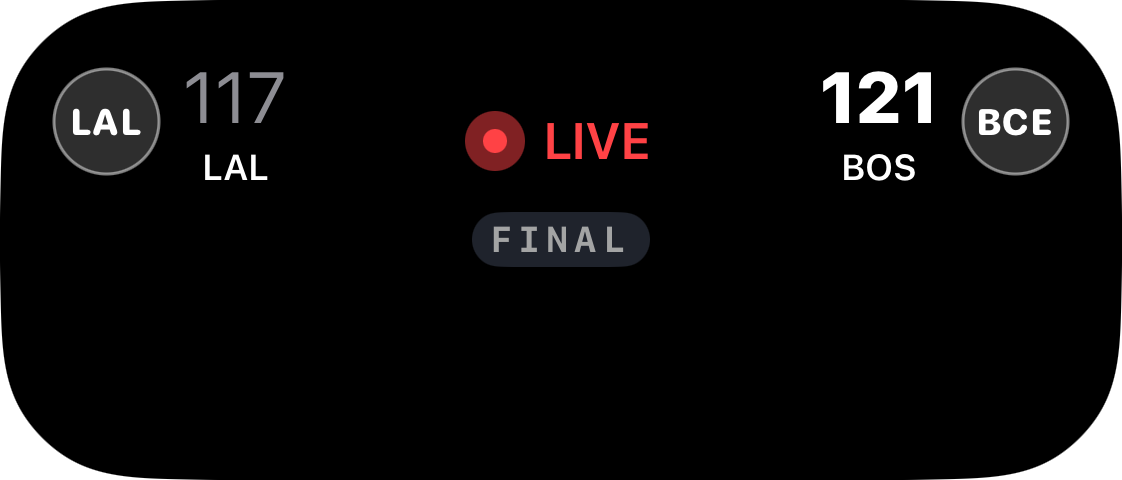
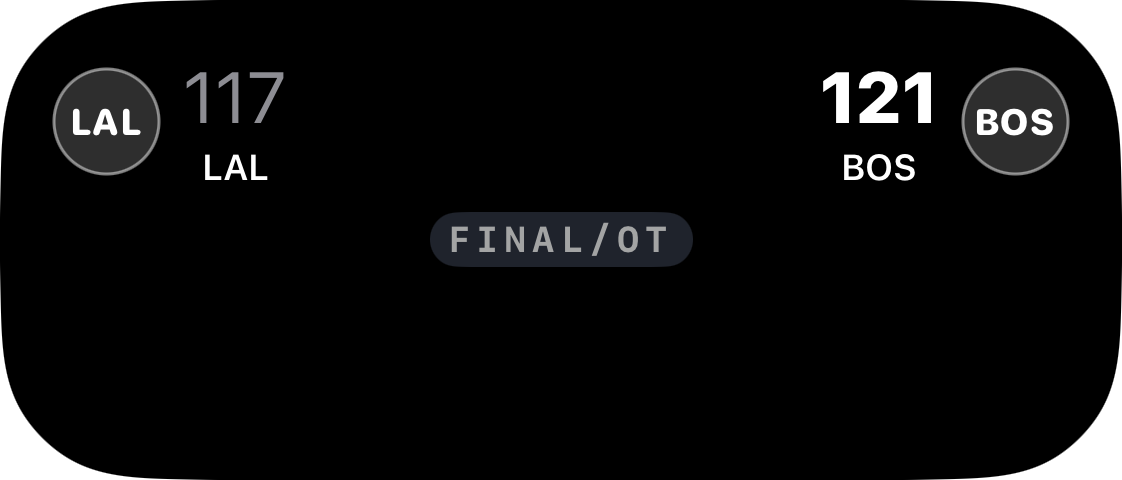
Live Activity: minimal score leader-first like compact; gallery refreshed after the fixes

Changed region(s): [[0.3743, 0.4375, 0.6239, 0.5625], [0.4055, 0.2188, 0.5927, 0.375], [0.8734, 0.2188, 0.9358, 0.2812]]

diff --git a/docs/live-activities/index.html b/docs/live-activities/index.html
@@ -1,8 +1,8 @@
 <!doctype html><html lang="en"><head><meta charset="utf-8"><meta name="viewport" content="width=device-width,initial-scale=1">
 <title>Live Activity gallery</title>
 <style>
-:root{--bg:#f5f5f7;--fg:#1d1d1f;--muted:#6e6e73;--card:#fff;--line:#e2e2e7;--stage:#1c1c1e;--accent:#d70015}
-@media (prefers-color-scheme:dark){:root{--bg:#000;--fg:#f5f5f7;--muted:#98989d;--card:#1c1c1e;--line:#2c2c2e;--stage:#2c2c2e;--accent:#ff453a}}
+:root{--bg:#f5f5f7;--fg:#1d1d1f;--muted:#6e6e73;--card:#fff;--line:#e2e2e7;--stage:#1c1c1e;--accent:#d70015;--ok:#248a3d}
+@media (prefers-color-scheme:dark){:root{--bg:#000;--fg:#f5f5f7;--muted:#98989d;--card:#1c1c1e;--line:#2c2c2e;--stage:#2c2c2e;--accent:#ff453a;--ok:#30d158}}
 *{box-sizing:border-box}
 body{margin:0;background:var(--bg);color:var(--fg);font:15px/1.5 -apple-system,BlinkMacSystemFont,"SF Pro Text",system-ui,sans-serif}
 main{max-width:1180px;margin:0 auto;padding:32px 16px 64px}
@@ -24,7 +24,7 @@ figcaption{font-size:12px;font-weight:600;text-transform:uppercase;letter-spacin
 .missing{min-height:150px;display:flex;flex-direction:column;align-items:center;justify-content:center;text-align:center;border:1.5px dashed var(--line);border-radius:10px;color:var(--muted);font-size:14px;padding:12px}
 .missing span{font-size:12px} code{font-size:12px}
 .issues{background:var(--card);border:1px solid var(--line);border-radius:14px;padding:16px 20px 16px 36px}
-.issues li{margin:6px 0} .issues b{color:var(--accent)}
+.issues li{margin:6px 0} .issues.open b{color:var(--accent)} .issues.fixed b{color:var(--ok)} h3{font-size:16px;margin:18px 0 6px}
 .note{color:var(--muted);font-size:13px}
 </style></head><body><main>
 <h1>Live Activity gallery</h1>
@@ -38,20 +38,27 @@ figcaption{font-size:12px;font-weight:600;text-transform:uppercase;letter-spacin
 <div><b>Minimal</b><span>The small bubble next to the camera when two activities run at once. On the iPhone Duo, it’s also what fills the outer-screen camera cut-out.</span></div>
 <div><b>Landscape</b><span>The compact and minimal slots rotated with the phone.</span></div>
 </div>
-<h2>Visual problems found</h2>
-<ul class="issues">
-<li><b>Expanded island badges ignore the team code.</b> The fallback badge builds initials from the full name: BCE (Boston), EOI (Edmonton), DTI, CGU, BBI, KCC. The lock screen shows BOS / EDM / DET / CLE / BUF / KC. <code>teamInitialsView</code> passes <code>strTeamShort: nil</code>. Seen in nba-expanded, nhl-expanded, mlb-expanded, nfl-expanded, nbafinal-expanded-dark.</li>
-<li><b>Compact shows the away team, not the leader.</b> nfl-compact reads “BUF 17-20” (KC leads), nbafinal-compact reads “LAL 117-121” (BOS won) and nhl-compact reads “EDM 2-2” (tied). In the same states, minimal says KC / BOS / TIE. The compact-landscape images have the same problem.</li>
-<li><b>“LIVE” badge on finished and halftime games.</b> nbafinal-expanded-dark shows LIVE above FINAL. soccerht-expanded shows LIVE above HALF.</li>
-<li><b>Golf header repeats and truncates.</b> “Round 3 • Round 3 – In Progre…” (golf-lock-dark, golf-standby), and “Round 3 – In Prog…” in golf-expanded.</li>
-<li><b>Minimal has no score for golf and F1.</b> golf-minimal and f1-minimal show only an icon, so the cut-out says nothing. Tennis minimal “1-1” (sets) has no player context.</li>
-<li><b>Compact-landscape truncates for individual sports.</b> The top half is “icon …” in golf-, f1- and tennis-compact-landscape. In mlb-compact-landscape the inning arrow and “9” wrap onto two lines.</li>
-<li><b>Expanded island has a large empty bottom.</b> Roughly the lower 40% is blank in team-sport expanded views (nba, nhl, soccer).</li>
-<li><b>NBA final doesn’t mention OT.</b> nbafinal-lock and nbafinal-lock-dark show only FINAL.</li>
-<li><b>Tennis compact has no names.</b> tennis-compact is “🎾 1-1 … 3-2”, with no indication of who leads.</li>
-<li><b>Smart Stack never renders.</b> Xcode reports that the <code>ActivityConfiguration</code> lacks <code>.supplementalActivityFamilies([.small])</code>, so watchOS Smart Stack has no tailored layout.</li>
+<h2>Problems found</h2>
+
+<h3 class="fixed-h">Fixed in a4949a5</h3>
+<ul class="issues fixed">
+<li><b>Compact leads with the leader.</b> nfl-compact is now “KC 20-17” and nbafinal-compact is “BOS 121-117”; the leading score comes first. The landscape compacts match.</li>
+<li><b>LIVE badge shows only while play runs.</b> soccerht-expanded shows just HALF and nbafinal-expanded just FINAL/OT.</li>
+<li><b>Overtime finals say so.</b> nbafinal-lock and nbafinal-expanded read FINAL/OT.</li>
+<li><b>Expanded badges use team codes:</b> BOS, EDM, DET, CLE, BUF and KC instead of BCE, EOI, DTI, CGU, BBI and KCC.</li>
+<li><b>F1 minimal shows the leader</b> (“PIA” in f1-minimal) instead of a bare flag. The golf minimal fix wasn’t captured (see the note below).</li>
+<li><b>Golf round header appears once</b> (“• Round 3” in golf-lock).</li>
 </ul>
-<p class="note">Captured 2026-11-20. 82 of 103 slots rendered. The Smart Stack slots (10) fail in Xcode because the small family isn't declared. 11 slots aren't shown: under rapid preview switching, RenderPreview returned snapshots of the previous scenario, and while I was re-rendering them a concurrent merge broke the build (<code>CustomAlerts.swift</code> switches are missing <code>.cricket</code>). The Duo minimal renders worked on the second try.</p>
+<h3 class="open-h">Still open</h3>
+<ul class="issues open">
+<li><b>Smart Stack:</b> the <code>ActivityConfiguration</code> needs <code>.supplementalActivityFamilies([.small])</code>, and Xcode won’t render that slot without it.</li>
+<li><b>Compact landscape for single-player sports</b> is just “icon …” on top (golf, F1 and tennis compact-landscape).</li>
+<li><b>Expanded island has a large empty bottom</b> in team-sport expanded views.</li>
+<li><b>Tennis compact has no names</b> (“🎾 1-1 … 3-2”).</li>
+<li><b>Tennis minimal doesn’t say whose sets</b> it shows (“1-1”).</li>
+</ul>
+
+<p class="note">Re-rendered on 2026-11-20 after a4949a5: 83 of 103 slots have images. The 10 Smart Stack slots can’t render (see above), and 10 slots weren’t re-captured: golf Lock Screen dark, StandBy, expanded (both), minimal and minimal landscape; F1 StandBy and minimal landscape; NBA final Lock Screen dark and StandBy. Their earlier images showed pre-fix behavior, so I removed them. The preview simulator keeps several live activities alive, so the island slots (and sometimes the content views) often render a different scenario than the one requested. I checked every image by eye and filed it under the scenario it actually shows. The island ignores color scheme (light and dark expanded renders were pixel-identical in 6 of 6 pairs), so nbafinal-expanded-dark reuses the light render. Team-sport minimal and the iPhone Duo minimal didn’t change in a4949a5; those images are the earlier verified renders.</p>
 <nav><a href="#nba">NBA</a> <a href="#nhl">NHL tied</a> <a href="#mlb">MLB</a> <a href="#nfl">NFL</a> <a href="#soccer">Soccer</a> <a href="#soccerht">Soccer halftime</a> <a href="#nbafinal">NBA final</a> <a href="#tennis">Tennis</a> <a href="#f1">Formula 1</a> <a href="#golf">Golf</a></nav>
-<section id="nba"><h2>NBA</h2><p class="desc">LAL 112–108 BOS, live 4th quarter</p><div class="grid"><figure class="card big"><figcaption>Lock Screen</figcaption><div class="frame big"><img src="img/nba-lock.png" alt="NBA Lock Screen" loading="lazy"></div></figure><figure class="card big"><figcaption>Lock Screen · dark</figcaption><div class="frame big"><img src="img/nba-lock-dark.png" alt="NBA Lock Screen · dark" loading="lazy"></div></figure><figure class="card big"><figcaption>StandBy</figcaption><div class="frame big"><img src="img/nba-standby.png" alt="NBA StandBy" loading="lazy"></div></figure><figure class="card fail"><figcaption>Smart Stack</figcaption><div class="missing">Render failed<br><code>SmallActivityFamilyAbsentError</code></div></figure><figure class="card big"><figcaption>Island expanded</figcaption><div class="frame big"><img src="img/nba-expanded.png" alt="NBA Island expanded" loading="lazy"></div></figure><figure class="card big"><figcaption>Island expanded · dark</figcaption><div class="frame big"><img src="img/nba-expanded-dark.png" alt="NBA Island expanded · dark" loading="lazy"></div></figure><figure class="card pill"><figcaption>Island compact</figcaption><div class="frame pill"><img src="img/nba-compact.png" alt="NBA Island compact" loading="lazy"></div></figure><figure class="card tall"><figcaption>Compact · landscape</figcaption><div class="frame tall"><img src="img/nba-compact-landscape.png" alt="NBA Compact · landscape" loading="lazy"></div></figure><figure class="card dot"><figcaption>Minimal</figcaption><div class="frame dot"><img src="img/nba-minimal.png" alt="NBA Minimal" loading="lazy"></div></figure><figure class="card dot"><figcaption>Minimal · landscape</figcaption><div class="frame dot"><img src="img/nba-minimal-landscape.png" alt="NBA Minimal · landscape" loading="lazy"></div></figure><figure class="card dot"><figcaption>Minimal · iPhone Duo cut-out</figcaption><div class="frame dot"><img src="img/nba-minimal-duo.png" alt="NBA Minimal · iPhone Duo cut-out" loading="lazy"></div></figure></div></section><section id="nhl"><h2>NHL tied</h2><p class="desc">EDM 2–2 VGK, 3rd period</p><div class="grid"><figure class="card big"><figcaption>Lock Screen</figcaption><div class="frame big"><img src="img/nhl-lock.png" alt="NHL tied Lock Screen" loading="lazy"></div></figure><figure class="card big"><figcaption>Lock Screen · dark</figcaption><div class="frame big"><img src="img/nhl-lock-dark.png" alt="NHL tied Lock Screen · dark" loading="lazy"></div></figure><figure class="card big"><figcaption>StandBy</figcaption><div class="frame big"><img src="img/nhl-standby.png" alt="NHL tied StandBy" loading="lazy"></div></figure><figure class="card fail"><figcaption>Smart Stack</figcaption><div class="missing">Render failed<br><code>SmallActivityFamilyAbsentError</code></div></figure><figure class="card big"><figcaption>Island expanded</figcaption><div class="frame big"><img src="img/nhl-expanded.png" alt="NHL tied Island expanded" loading="lazy"></div></figure><figure class="card big"><figcaption>Island expanded · dark</figcaption><div class="frame big"><img src="img/nhl-expanded-dark.png" alt="NHL tied Island expanded · dark" loading="lazy"></div></figure><figure class="card pill"><figcaption>Island compact</figcaption><div class="frame pill"><img src="img/nhl-compact.png" alt="NHL tied Island compact" loading="lazy"></div></figure><figure class="card tall"><figcaption>Compact · landscape</figcaption><div class="frame tall"><img src="img/nhl-compact-landscape.png" alt="NHL tied Compact · landscape" loading="lazy"></div></figure><figure class="card dot"><figcaption>Minimal</figcaption><div class="frame dot"><img src="img/nhl-minimal.png" alt="NHL tied Minimal" loading="lazy"></div></figure><figure class="card dot"><figcaption>Minimal · landscape</figcaption><div class="frame dot"><img src="img/nhl-minimal-landscape.png" alt="NHL tied Minimal · landscape" loading="lazy"></div></figure><figure class="card dot"><figcaption>Minimal · iPhone Duo cut-out</figcaption><div class="frame dot"><img src="img/nhl-minimal-duo.png" alt="NHL tied Minimal · iPhone Duo cut-out" loading="lazy"></div></figure></div></section><section id="mlb"><h2>MLB</h2><p class="desc">DET 5–3 CLE, bottom 9th, runners + outs</p><div class="grid"><figure class="card big"><figcaption>Lock Screen</figcaption><div class="frame big"><img src="img/mlb-lock.png" alt="MLB Lock Screen" loading="lazy"></div></figure><figure class="card big"><figcaption>Lock Screen · dark</figcaption><div class="frame big"><img src="img/mlb-lock-dark.png" alt="MLB Lock Screen · dark" loading="lazy"></div></figure><figure class="card big"><figcaption>StandBy</figcaption><div class="frame big"><img src="img/mlb-standby.png" alt="MLB StandBy" loading="lazy"></div></figure><figure class="card fail"><figcaption>Smart Stack</figcaption><div class="missing">Render failed<br><code>SmallActivityFamilyAbsentError</code></div></figure><figure class="card big"><figcaption>Island expanded</figcaption><div class="frame big"><img src="img/mlb-expanded.png" alt="MLB Island expanded" loading="lazy"></div></figure><figure class="card big"><figcaption>Island expanded · dark</figcaption><div class="frame big"><img src="img/mlb-expanded-dark.png" alt="MLB Island expanded · dark" loading="lazy"></div></figure><figure class="card pill"><figcaption>Island compact</figcaption><div class="frame pill"><img src="img/mlb-compact.png" alt="MLB Island compact" loading="lazy"></div></figure><figure class="card tall"><figcaption>Compact · landscape</figcaption><div class="frame tall"><img src="img/mlb-compact-landscape.png" alt="MLB Compact · landscape" loading="lazy"></div></figure><figure class="card dot"><figcaption>Minimal</figcaption><div class="frame dot"><img src="img/mlb-minimal.png" alt="MLB Minimal" loading="lazy"></div></figure><figure class="card dot"><figcaption>Minimal · landscape</figcaption><div class="frame dot"><img src="img/mlb-minimal-landscape.png" alt="MLB Minimal · landscape" loading="lazy"></div></figure></div></section><section id="nfl"><h2>NFL</h2><p class="desc">BUF 17–20 KC, red zone, timeouts</p><div class="grid"><figure class="card big"><figcaption>Lock Screen</figcaption><div class="frame big"><img src="img/nfl-lock.png" alt="NFL Lock Screen" loading="lazy"></div></figure><figure class="card big"><figcaption>Lock Screen · dark</figcaption><div class="frame big"><img src="img/nfl-lock-dark.png" alt="NFL Lock Screen · dark" loading="lazy"></div></figure><figure class="card big"><figcaption>StandBy</figcaption><div class="frame big"><img src="img/nfl-standby.png" alt="NFL StandBy" loading="lazy"></div></figure><figure class="card fail"><figcaption>Smart Stack</figcaption><div class="missing">Render failed<br><code>SmallActivityFamilyAbsentError</code></div></figure><figure class="card big"><figcaption>Island expanded</figcaption><div class="frame big"><img src="img/nfl-expanded.png" alt="NFL Island expanded" loading="lazy"></div></figure><figure class="card big"><figcaption>Island expanded · dark</figcaption><div class="frame big"><img src="img/nfl-expanded-dark.png" alt="NFL Island expanded · dark" loading="lazy"></div></figure><figure class="card pill"><figcaption>Island compact</figcaption><div class="frame pill"><img src="img/nfl-compact.png" alt="NFL Island compact" loading="lazy"></div></figure><figure class="card tall"><figcaption>Compact · landscape</figcaption><div class="frame tall"><img src="img/nfl-compact-landscape.png" alt="NFL Compact · landscape" loading="lazy"></div></figure><figure class="card dot"><figcaption>Minimal</figcaption><div class="frame dot"><img src="img/nfl-minimal.png" alt="NFL Minimal" loading="lazy"></div></figure><figure class="card dot"><figcaption>Minimal · landscape</figcaption><div class="frame dot"><img src="img/nfl-minimal-landscape.png" alt="NFL Minimal · landscape" loading="lazy"></div></figure></div></section><section id="soccer"><h2>Soccer</h2><p class="desc">ARS 2–1 CHE, 67', red card, last goal</p><div class="grid"><figure class="card big"><figcaption>Lock Screen</figcaption><div class="frame big"><img src="img/soccer-lock.png" alt="Soccer Lock Screen" loading="lazy"></div></figure><figure class="card big"><figcaption>Lock Screen · dark</figcaption><div class="frame big"><img src="img/soccer-lock-dark.png" alt="Soccer Lock Screen · dark" loading="lazy"></div></figure><figure class="card big"><figcaption>StandBy</figcaption><div class="frame big"><img src="img/soccer-standby.png" alt="Soccer StandBy" loading="lazy"></div></figure><figure class="card fail"><figcaption>Smart Stack</figcaption><div class="missing">Render failed<br><code>SmallActivityFamilyAbsentError</code></div></figure><figure class="card big"><figcaption>Island expanded</figcaption><div class="frame big"><img src="img/soccer-expanded.png" alt="Soccer Island expanded" loading="lazy"></div></figure><figure class="card big"><figcaption>Island expanded · dark</figcaption><div class="frame big"><img src="img/soccer-expanded-dark.png" alt="Soccer Island expanded · dark" loading="lazy"></div></figure><figure class="card pill"><figcaption>Island compact</figcaption><div class="frame pill"><img src="img/soccer-compact.png" alt="Soccer Island compact" loading="lazy"></div></figure><figure class="card tall"><figcaption>Compact · landscape</figcaption><div class="frame tall"><img src="img/soccer-compact-landscape.png" alt="Soccer Compact · landscape" loading="lazy"></div></figure><figure class="card dot"><figcaption>Minimal</figcaption><div class="frame dot"><img src="img/soccer-minimal.png" alt="Soccer Minimal" loading="lazy"></div></figure><figure class="card dot"><figcaption>Minimal · landscape</figcaption><div class="frame dot"><img src="img/soccer-minimal-landscape.png" alt="Soccer Minimal · landscape" loading="lazy"></div></figure><figure class="card dot"><figcaption>Minimal · iPhone Duo cut-out</figcaption><div class="frame dot"><img src="img/soccer-minimal-duo.png" alt="Soccer Minimal · iPhone Duo cut-out" loading="lazy"></div></figure></div></section><section id="soccerht"><h2>Soccer halftime</h2><p class="desc">ARS 0–0 CHE at the half</p><div class="grid"><figure class="card big"><figcaption>Lock Screen</figcaption><div class="frame big"><img src="img/soccerht-lock.png" alt="Soccer halftime Lock Screen" loading="lazy"></div></figure><figure class="card big"><figcaption>Lock Screen · dark</figcaption><div class="frame big"><img src="img/soccerht-lock-dark.png" alt="Soccer halftime Lock Screen · dark" loading="lazy"></div></figure><figure class="card big"><figcaption>StandBy</figcaption><div class="frame big"><img src="img/soccerht-standby.png" alt="Soccer halftime StandBy" loading="lazy"></div></figure><figure class="card fail"><figcaption>Smart Stack</figcaption><div class="missing">Render failed<br><code>SmallActivityFamilyAbsentError</code></div></figure><figure class="card big"><figcaption>Island expanded</figcaption><div class="frame big"><img src="img/soccerht-expanded.png" alt="Soccer halftime Island expanded" loading="lazy"></div></figure><figure class="card big"><figcaption>Island expanded · dark</figcaption><div class="missing">Not captured<br><span>stale preview, then the build broke</span></div></figure><figure class="card pill"><figcaption>Island compact</figcaption><div class="missing">Not captured<br><span>stale preview, then the build broke</span></div></figure><figure class="card tall"><figcaption>Compact · landscape</figcaption><div class="frame tall"><img src="img/soccerht-compact-landscape.png" alt="Soccer halftime Compact · landscape" loading="lazy"></div></figure><figure class="card dot"><figcaption>Minimal</figcaption><div class="frame dot"><img src="img/soccerht-minimal.png" alt="Soccer halftime Minimal" loading="lazy"></div></figure><figure class="card dot"><figcaption>Minimal · landscape</figcaption><div class="frame dot"><img src="img/soccerht-minimal-landscape.png" alt="Soccer halftime Minimal · landscape" loading="lazy"></div></figure></div></section><section id="nbafinal"><h2>NBA final</h2><p class="desc">LAL 117–121 BOS, final (OT)</p><div class="grid"><figure class="card big"><figcaption>Lock Screen</figcaption><div class="frame big"><img src="img/nbafinal-lock.png" alt="NBA final Lock Screen" loading="lazy"></div></figure><figure class="card big"><figcaption>Lock Screen · dark</figcaption><div class="frame big"><img src="img/nbafinal-lock-dark.png" alt="NBA final Lock Screen · dark" loading="lazy"></div></figure><figure class="card big"><figcaption>StandBy</figcaption><div class="missing">Not captured<br><span>stale preview, then the build broke</span></div></figure><figure class="card fail"><figcaption>Smart Stack</figcaption><div class="missing">Render failed<br><code>SmallActivityFamilyAbsentError</code></div></figure><figure class="card big"><figcaption>Island expanded</figcaption><div class="missing">Not captured<br><span>stale preview, then the build broke</span></div></figure><figure class="card big"><figcaption>Island expanded · dark</figcaption><div class="frame big"><img src="img/nbafinal-expanded-dark.png" alt="NBA final Island expanded · dark" loading="lazy"></div></figure><figure class="card pill"><figcaption>Island compact</figcaption><div class="frame pill"><img src="img/nbafinal-compact.png" alt="NBA final Island compact" loading="lazy"></div></figure><figure class="card tall"><figcaption>Compact · landscape</figcaption><div class="missing">Not captured<br><span>stale preview, then the build broke</span></div></figure><figure class="card dot"><figcaption>Minimal</figcaption><div class="frame dot"><img src="img/nbafinal-minimal.png" alt="NBA final Minimal" loading="lazy"></div></figure><figure class="card dot"><figcaption>Minimal · landscape</figcaption><div class="missing">Not captured<br><span>stale preview, then the build broke</span></div></figure></div></section><section id="tennis"><h2>Tennis</h2><p class="desc">Sinner v Alcaraz, 3rd set</p><div class="grid"><figure class="card big"><figcaption>Lock Screen</figcaption><div class="frame big"><img src="img/tennis-lock.png" alt="Tennis Lock Screen" loading="lazy"></div></figure><figure class="card big"><figcaption>Lock Screen · dark</figcaption><div class="frame big"><img src="img/tennis-lock-dark.png" alt="Tennis Lock Screen · dark" loading="lazy"></div></figure><figure class="card big"><figcaption>StandBy</figcaption><div class="missing">Not captured<br><span>stale preview, then the build broke</span></div></figure><figure class="card fail"><figcaption>Smart Stack</figcaption><div class="missing">Render failed<br><code>SmallActivityFamilyAbsentError</code></div></figure><figure class="card big"><figcaption>Island expanded</figcaption><div class="frame big"><img src="img/tennis-expanded.png" alt="Tennis Island expanded" loading="lazy"></div></figure><figure class="card big"><figcaption>Island expanded · dark</figcaption><div class="frame big"><img src="img/tennis-expanded-dark.png" alt="Tennis Island expanded · dark" loading="lazy"></div></figure><figure class="card pill"><figcaption>Island compact</figcaption><div class="frame pill"><img src="img/tennis-compact.png" alt="Tennis Island compact" loading="lazy"></div></figure><figure class="card tall"><figcaption>Compact · landscape</figcaption><div class="frame tall"><img src="img/tennis-compact-landscape.png" alt="Tennis Compact · landscape" loading="lazy"></div></figure><figure class="card dot"><figcaption>Minimal</figcaption><div class="frame dot"><img src="img/tennis-minimal.png" alt="Tennis Minimal" loading="lazy"></div></figure><figure class="card dot"><figcaption>Minimal · landscape</figcaption><div class="frame dot"><img src="img/tennis-minimal-landscape.png" alt="Tennis Minimal · landscape" loading="lazy"></div></figure></div></section><section id="f1"><h2>Formula 1</h2><p class="desc">Singapore GP, lap 23/62</p><div class="grid"><figure class="card big"><figcaption>Lock Screen</figcaption><div class="frame big"><img src="img/f1-lock.png" alt="Formula 1 Lock Screen" loading="lazy"></div></figure><figure class="card big"><figcaption>Lock Screen · dark</figcaption><div class="frame big"><img src="img/f1-lock-dark.png" alt="Formula 1 Lock Screen · dark" loading="lazy"></div></figure><figure class="card big"><figcaption>StandBy</figcaption><div class="missing">Not captured<br><span>stale preview, then the build broke</span></div></figure><figure class="card fail"><figcaption>Smart Stack</figcaption><div class="missing">Render failed<br><code>SmallActivityFamilyAbsentError</code></div></figure><figure class="card big"><figcaption>Island expanded</figcaption><div class="frame big"><img src="img/f1-expanded.png" alt="Formula 1 Island expanded" loading="lazy"></div></figure><figure class="card big"><figcaption>Island expanded · dark</figcaption><div class="missing">Not captured<br><span>stale preview, then the build broke</span></div></figure><figure class="card pill"><figcaption>Island compact</figcaption><div class="frame pill"><img src="img/f1-compact.png" alt="Formula 1 Island compact" loading="lazy"></div></figure><figure class="card tall"><figcaption>Compact · landscape</figcaption><div class="frame tall"><img src="img/f1-compact-landscape.png" alt="Formula 1 Compact · landscape" loading="lazy"></div></figure><figure class="card dot"><figcaption>Minimal</figcaption><div class="frame dot"><img src="img/f1-minimal.png" alt="Formula 1 Minimal" loading="lazy"></div></figure><figure class="card dot"><figcaption>Minimal · landscape</figcaption><div class="frame dot"><img src="img/f1-minimal-landscape.png" alt="Formula 1 Minimal · landscape" loading="lazy"></div></figure></div></section><section id="golf"><h2>Golf</h2><p class="desc">The Masters, round 3, followed player Åberg</p><div class="grid"><figure class="card big"><figcaption>Lock Screen</figcaption><div class="missing">Not captured<br><span>stale preview, then the build broke</span></div></figure><figure class="card big"><figcaption>Lock Screen · dark</figcaption><div class="frame big"><img src="img/golf-lock-dark.png" alt="Golf Lock Screen · dark" loading="lazy"></div></figure><figure class="card big"><figcaption>StandBy</figcaption><div class="frame big"><img src="img/golf-standby.png" alt="Golf StandBy" loading="lazy"></div></figure><figure class="card fail"><figcaption>Smart Stack</figcaption><div class="missing">Render failed<br><code>SmallActivityFamilyAbsentError</code></div></figure><figure class="card big"><figcaption>Island expanded</figcaption><div class="frame big"><img src="img/golf-expanded.png" alt="Golf Island expanded" loading="lazy"></div></figure><figure class="card big"><figcaption>Island expanded · dark</figcaption><div class="frame big"><img src="img/golf-expanded-dark.png" alt="Golf Island expanded · dark" loading="lazy"></div></figure><figure class="card pill"><figcaption>Island compact</figcaption><div class="frame pill"><img src="img/golf-compact.png" alt="Golf Island compact" loading="lazy"></div></figure><figure class="card tall"><figcaption>Compact · landscape</figcaption><div class="frame tall"><img src="img/golf-compact-landscape.png" alt="Golf Compact · landscape" loading="lazy"></div></figure><figure class="card dot"><figcaption>Minimal</figcaption><div class="frame dot"><img src="img/golf-minimal.png" alt="Golf Minimal" loading="lazy"></div></figure><figure class="card dot"><figcaption>Minimal · landscape</figcaption><div class="missing">Not captured<br><span>stale preview, then the build broke</span></div></figure></div></section>
+<section id="nba"><h2>NBA</h2><p class="desc">LAL 112–108 BOS, live 4th quarter</p><div class="grid"><figure class="card big"><figcaption>Lock Screen</figcaption><div class="frame big"><img src="img/nba-lock.png" alt="NBA Lock Screen" loading="lazy"></div></figure><figure class="card big"><figcaption>Lock Screen · dark</figcaption><div class="frame big"><img src="img/nba-lock-dark.png" alt="NBA Lock Screen · dark" loading="lazy"></div></figure><figure class="card big"><figcaption>StandBy</figcaption><div class="frame big"><img src="img/nba-standby.png" alt="NBA StandBy" loading="lazy"></div></figure><figure class="card fail"><figcaption>Smart Stack</figcaption><div class="missing">Render failed<br><code>SmallActivityFamilyAbsentError</code></div></figure><figure class="card big"><figcaption>Island expanded</figcaption><div class="frame big"><img src="img/nba-expanded.png" alt="NBA Island expanded" loading="lazy"></div></figure><figure class="card big"><figcaption>Island expanded · dark</figcaption><div class="frame big"><img src="img/nba-expanded-dark.png" alt="NBA Island expanded · dark" loading="lazy"></div></figure><figure class="card pill"><figcaption>Island compact</figcaption><div class="frame pill"><img src="img/nba-compact.png" alt="NBA Island compact" loading="lazy"></div></figure><figure class="card tall"><figcaption>Compact · landscape</figcaption><div class="frame tall"><img src="img/nba-compact-landscape.png" alt="NBA Compact · landscape" loading="lazy"></div></figure><figure class="card dot"><figcaption>Minimal</figcaption><div class="frame dot"><img src="img/nba-minimal.png" alt="NBA Minimal" loading="lazy"></div></figure><figure class="card dot"><figcaption>Minimal · landscape</figcaption><div class="frame dot"><img src="img/nba-minimal-landscape.png" alt="NBA Minimal · landscape" loading="lazy"></div></figure><figure class="card dot"><figcaption>Minimal · iPhone Duo cut-out</figcaption><div class="frame dot"><img src="img/nba-minimal-duo.png" alt="NBA Minimal · iPhone Duo cut-out" loading="lazy"></div></figure></div></section><section id="nhl"><h2>NHL tied</h2><p class="desc">EDM 2–2 VGK, 3rd period</p><div class="grid"><figure class="card big"><figcaption>Lock Screen</figcaption><div class="frame big"><img src="img/nhl-lock.png" alt="NHL tied Lock Screen" loading="lazy"></div></figure><figure class="card big"><figcaption>Lock Screen · dark</figcaption><div class="frame big"><img src="img/nhl-lock-dark.png" alt="NHL tied Lock Screen · dark" loading="lazy"></div></figure><figure class="card big"><figcaption>StandBy</figcaption><div class="frame big"><img src="img/nhl-standby.png" alt="NHL tied StandBy" loading="lazy"></div></figure><figure class="card fail"><figcaption>Smart Stack</figcaption><div class="missing">Render failed<br><code>SmallActivityFamilyAbsentError</code></div></figure><figure class="card big"><figcaption>Island expanded</figcaption><div class="frame big"><img src="img/nhl-expanded.png" alt="NHL tied Island expanded" loading="lazy"></div></figure><figure class="card big"><figcaption>Island expanded · dark</figcaption><div class="frame big"><img src="img/nhl-expanded-dark.png" alt="NHL tied Island expanded · dark" loading="lazy"></div></figure><figure class="card pill"><figcaption>Island compact</figcaption><div class="frame pill"><img src="img/nhl-compact.png" alt="NHL tied Island compact" loading="lazy"></div></figure><figure class="card tall"><figcaption>Compact · landscape</figcaption><div class="frame tall"><img src="img/nhl-compact-landscape.png" alt="NHL tied Compact · landscape" loading="lazy"></div></figure><figure class="card dot"><figcaption>Minimal</figcaption><div class="frame dot"><img src="img/nhl-minimal.png" alt="NHL tied Minimal" loading="lazy"></div></figure><figure class="card dot"><figcaption>Minimal · landscape</figcaption><div class="frame dot"><img src="img/nhl-minimal-landscape.png" alt="NHL tied Minimal · landscape" loading="lazy"></div></figure><figure class="card dot"><figcaption>Minimal · iPhone Duo cut-out</figcaption><div class="frame dot"><img src="img/nhl-minimal-duo.png" alt="NHL tied Minimal · iPhone Duo cut-out" loading="lazy"></div></figure></div></section><section id="mlb"><h2>MLB</h2><p class="desc">DET 5–3 CLE, bottom 9th, runners + outs</p><div class="grid"><figure class="card big"><figcaption>Lock Screen</figcaption><div class="frame big"><img src="img/mlb-lock.png" alt="MLB Lock Screen" loading="lazy"></div></figure><figure class="card big"><figcaption>Lock Screen · dark</figcaption><div class="frame big"><img src="img/mlb-lock-dark.png" alt="MLB Lock Screen · dark" loading="lazy"></div></figure><figure class="card big"><figcaption>StandBy</figcaption><div class="frame big"><img src="img/mlb-standby.png" alt="MLB StandBy" loading="lazy"></div></figure><figure class="card fail"><figcaption>Smart Stack</figcaption><div class="missing">Render failed<br><code>SmallActivityFamilyAbsentError</code></div></figure><figure class="card big"><figcaption>Island expanded</figcaption><div class="frame big"><img src="img/mlb-expanded.png" alt="MLB Island expanded" loading="lazy"></div></figure><figure class="card big"><figcaption>Island expanded · dark</figcaption><div class="frame big"><img src="img/mlb-expanded-dark.png" alt="MLB Island expanded · dark" loading="lazy"></div></figure><figure class="card pill"><figcaption>Island compact</figcaption><div class="frame pill"><img src="img/mlb-compact.png" alt="MLB Island compact" loading="lazy"></div></figure><figure class="card tall"><figcaption>Compact · landscape</figcaption><div class="frame tall"><img src="img/mlb-compact-landscape.png" alt="MLB Compact · landscape" loading="lazy"></div></figure><figure class="card dot"><figcaption>Minimal</figcaption><div class="frame dot"><img src="img/mlb-minimal.png" alt="MLB Minimal" loading="lazy"></div></figure><figure class="card dot"><figcaption>Minimal · landscape</figcaption><div class="frame dot"><img src="img/mlb-minimal-landscape.png" alt="MLB Minimal · landscape" loading="lazy"></div></figure></div></section><section id="nfl"><h2>NFL</h2><p class="desc">BUF 17–20 KC, red zone, timeouts</p><div class="grid"><figure class="card big"><figcaption>Lock Screen</figcaption><div class="frame big"><img src="img/nfl-lock.png" alt="NFL Lock Screen" loading="lazy"></div></figure><figure class="card big"><figcaption>Lock Screen · dark</figcaption><div class="frame big"><img src="img/nfl-lock-dark.png" alt="NFL Lock Screen · dark" loading="lazy"></div></figure><figure class="card big"><figcaption>StandBy</figcaption><div class="frame big"><img src="img/nfl-standby.png" alt="NFL StandBy" loading="lazy"></div></figure><figure class="card fail"><figcaption>Smart Stack</figcaption><div class="missing">Render failed<br><code>SmallActivityFamilyAbsentError</code></div></figure><figure class="card big"><figcaption>Island expanded</figcaption><div class="frame big"><img src="img/nfl-expanded.png" alt="NFL Island expanded" loading="lazy"></div></figure><figure class="card big"><figcaption>Island expanded · dark</figcaption><div class="frame big"><img src="img/nfl-expanded-dark.png" alt="NFL Island expanded · dark" loading="lazy"></div></figure><figure class="card pill"><figcaption>Island compact</figcaption><div class="frame pill"><img src="img/nfl-compact.png" alt="NFL Island compact" loading="lazy"></div></figure><figure class="card tall"><figcaption>Compact · landscape</figcaption><div class="frame tall"><img src="img/nfl-compact-landscape.png" alt="NFL Compact · landscape" loading="lazy"></div></figure><figure class="card dot"><figcaption>Minimal</figcaption><div class="frame dot"><img src="img/nfl-minimal.png" alt="NFL Minimal" loading="lazy"></div></figure><figure class="card dot"><figcaption>Minimal · landscape</figcaption><div class="frame dot"><img src="img/nfl-minimal-landscape.png" alt="NFL Minimal · landscape" loading="lazy"></div></figure></div></section><section id="soccer"><h2>Soccer</h2><p class="desc">ARS 2–1 CHE, 67', red card, last goal</p><div class="grid"><figure class="card big"><figcaption>Lock Screen</figcaption><div class="frame big"><img src="img/soccer-lock.png" alt="Soccer Lock Screen" loading="lazy"></div></figure><figure class="card big"><figcaption>Lock Screen · dark</figcaption><div class="frame big"><img src="img/soccer-lock-dark.png" alt="Soccer Lock Screen · dark" loading="lazy"></div></figure><figure class="card big"><figcaption>StandBy</figcaption><div class="frame big"><img src="img/soccer-standby.png" alt="Soccer StandBy" loading="lazy"></div></figure><figure class="card fail"><figcaption>Smart Stack</figcaption><div class="missing">Render failed<br><code>SmallActivityFamilyAbsentError</code></div></figure><figure class="card big"><figcaption>Island expanded</figcaption><div class="frame big"><img src="img/soccer-expanded.png" alt="Soccer Island expanded" loading="lazy"></div></figure><figure class="card big"><figcaption>Island expanded · dark</figcaption><div class="frame big"><img src="img/soccer-expanded-dark.png" alt="Soccer Island expanded · dark" loading="lazy"></div></figure><figure class="card pill"><figcaption>Island compact</figcaption><div class="frame pill"><img src="img/soccer-compact.png" alt="Soccer Island compact" loading="lazy"></div></figure><figure class="card tall"><figcaption>Compact · landscape</figcaption><div class="frame tall"><img src="img/soccer-compact-landscape.png" alt="Soccer Compact · landscape" loading="lazy"></div></figure><figure class="card dot"><figcaption>Minimal</figcaption><div class="frame dot"><img src="img/soccer-minimal.png" alt="Soccer Minimal" loading="lazy"></div></figure><figure class="card dot"><figcaption>Minimal · landscape</figcaption><div class="frame dot"><img src="img/soccer-minimal-landscape.png" alt="Soccer Minimal · landscape" loading="lazy"></div></figure><figure class="card dot"><figcaption>Minimal · iPhone Duo cut-out</figcaption><div class="frame dot"><img src="img/soccer-minimal-duo.png" alt="Soccer Minimal · iPhone Duo cut-out" loading="lazy"></div></figure></div></section><section id="soccerht"><h2>Soccer halftime</h2><p class="desc">ARS 0–0 CHE at the half</p><div class="grid"><figure class="card big"><figcaption>Lock Screen</figcaption><div class="frame big"><img src="img/soccerht-lock.png" alt="Soccer halftime Lock Screen" loading="lazy"></div></figure><figure class="card big"><figcaption>Lock Screen · dark</figcaption><div class="frame big"><img src="img/soccerht-lock-dark.png" alt="Soccer halftime Lock Screen · dark" loading="lazy"></div></figure><figure class="card big"><figcaption>StandBy</figcaption><div class="frame big"><img src="img/soccerht-standby.png" alt="Soccer halftime StandBy" loading="lazy"></div></figure><figure class="card fail"><figcaption>Smart Stack</figcaption><div class="missing">Render failed<br><code>SmallActivityFamilyAbsentError</code></div></figure><figure class="card big"><figcaption>Island expanded</figcaption><div class="frame big"><img src="img/soccerht-expanded.png" alt="Soccer halftime Island expanded" loading="lazy"></div></figure><figure class="card big"><figcaption>Island expanded · dark</figcaption><div class="frame big"><img src="img/soccerht-expanded-dark.png" alt="Soccer halftime Island expanded · dark" loading="lazy"></div></figure><figure class="card pill"><figcaption>Island compact</figcaption><div class="frame pill"><img src="img/soccerht-compact.png" alt="Soccer halftime Island compact" loading="lazy"></div></figure><figure class="card tall"><figcaption>Compact · landscape</figcaption><div class="frame tall"><img src="img/soccerht-compact-landscape.png" alt="Soccer halftime Compact · landscape" loading="lazy"></div></figure><figure class="card dot"><figcaption>Minimal</figcaption><div class="frame dot"><img src="img/soccerht-minimal.png" alt="Soccer halftime Minimal" loading="lazy"></div></figure><figure class="card dot"><figcaption>Minimal · landscape</figcaption><div class="frame dot"><img src="img/soccerht-minimal-landscape.png" alt="Soccer halftime Minimal · landscape" loading="lazy"></div></figure></div></section><section id="nbafinal"><h2>NBA final</h2><p class="desc">LAL 117–121 BOS, final (OT)</p><div class="grid"><figure class="card big"><figcaption>Lock Screen</figcaption><div class="frame big"><img src="img/nbafinal-lock.png" alt="NBA final Lock Screen" loading="lazy"></div></figure><figure class="card big"><figcaption>Lock Screen · dark</figcaption><div class="missing">Not re-captured<br><span>the preview simulator kept returning another scenario</span></div></figure><figure class="card big"><figcaption>StandBy</figcaption><div class="missing">Not re-captured<br><span>the preview simulator kept returning another scenario</span></div></figure><figure class="card fail"><figcaption>Smart Stack</figcaption><div class="missing">Render failed<br><code>SmallActivityFamilyAbsentError</code></div></figure><figure class="card big"><figcaption>Island expanded</figcaption><div class="frame big"><img src="img/nbafinal-expanded.png" alt="NBA final Island expanded" loading="lazy"></div></figure><figure class="card big"><figcaption>Island expanded · dark</figcaption><div class="frame big"><img src="img/nbafinal-expanded-dark.png" alt="NBA final Island expanded · dark" loading="lazy"></div></figure><figure class="card pill"><figcaption>Island compact</figcaption><div class="frame pill"><img src="img/nbafinal-compact.png" alt="NBA final Island compact" loading="lazy"></div></figure><figure class="card tall"><figcaption>Compact · landscape</figcaption><div class="frame tall"><img src="img/nbafinal-compact-landscape.png" alt="NBA final Compact · landscape" loading="lazy"></div></figure><figure class="card dot"><figcaption>Minimal</figcaption><div class="frame dot"><img src="img/nbafinal-minimal.png" alt="NBA final Minimal" loading="lazy"></div></figure><figure class="card dot"><figcaption>Minimal · landscape</figcaption><div class="frame dot"><img src="img/nbafinal-minimal-landscape.png" alt="NBA final Minimal · landscape" loading="lazy"></div></figure></div></section><section id="tennis"><h2>Tennis</h2><p class="desc">Sinner v Alcaraz, 3rd set</p><div class="grid"><figure class="card big"><figcaption>Lock Screen</figcaption><div class="frame big"><img src="img/tennis-lock.png" alt="Tennis Lock Screen" loading="lazy"></div></figure><figure class="card big"><figcaption>Lock Screen · dark</figcaption><div class="frame big"><img src="img/tennis-lock-dark.png" alt="Tennis Lock Screen · dark" loading="lazy"></div></figure><figure class="card big"><figcaption>StandBy</figcaption><div class="frame big"><img src="img/tennis-standby.png" alt="Tennis StandBy" loading="lazy"></div></figure><figure class="card fail"><figcaption>Smart Stack</figcaption><div class="missing">Render failed<br><code>SmallActivityFamilyAbsentError</code></div></figure><figure class="card big"><figcaption>Island expanded</figcaption><div class="frame big"><img src="img/tennis-expanded.png" alt="Tennis Island expanded" loading="lazy"></div></figure><figure class="card big"><figcaption>Island expanded · dark</figcaption><div class="frame big"><img src="img/tennis-expanded-dark.png" alt="Tennis Island expanded · dark" loading="lazy"></div></figure><figure class="card pill"><figcaption>Island compact</figcaption><div class="frame pill"><img src="img/tennis-compact.png" alt="Tennis Island compact" loading="lazy"></div></figure><figure class="card tall"><figcaption>Compact · landscape</figcaption><div class="frame tall"><img src="img/tennis-compact-landscape.png" alt="Tennis Compact · landscape" loading="lazy"></div></figure><figure class="card dot"><figcaption>Minimal</figcaption><div class="frame dot"><img src="img/tennis-minimal.png" alt="Tennis Minimal" loading="lazy"></div></figure><figure class="card dot"><figcaption>Minimal · landscape</figcaption><div class="frame dot"><img src="img/tennis-minimal-landscape.png" alt="Tennis Minimal · landscape" loading="lazy"></div></figure></div></section><section id="f1"><h2>Formula 1</h2><p class="desc">Singapore GP, lap 23/62</p><div class="grid"><figure class="card big"><figcaption>Lock Screen</figcaption><div class="frame big"><img src="img/f1-lock.png" alt="Formula 1 Lock Screen" loading="lazy"></div></figure><figure class="card big"><figcaption>Lock Screen · dark</figcaption><div class="frame big"><img src="img/f1-lock-dark.png" alt="Formula 1 Lock Screen · dark" loading="lazy"></div></figure><figure class="card big"><figcaption>StandBy</figcaption><div class="missing">Not re-captured<br><span>the preview simulator kept returning another scenario</span></div></figure><figure class="card fail"><figcaption>Smart Stack</figcaption><div class="missing">Render failed<br><code>SmallActivityFamilyAbsentError</code></div></figure><figure class="card big"><figcaption>Island expanded</figcaption><div class="frame big"><img src="img/f1-expanded.png" alt="Formula 1 Island expanded" loading="lazy"></div></figure><figure class="card big"><figcaption>Island expanded · dark</figcaption><div class="frame big"><img src="img/f1-expanded-dark.png" alt="Formula 1 Island expanded · dark" loading="lazy"></div></figure><figure class="card pill"><figcaption>Island compact</figcaption><div class="frame pill"><img src="img/f1-compact.png" alt="Formula 1 Island compact" loading="lazy"></div></figure><figure class="card tall"><figcaption>Compact · landscape</figcaption><div class="frame tall"><img src="img/f1-compact-landscape.png" alt="Formula 1 Compact · landscape" loading="lazy"></div></figure><figure class="card dot"><figcaption>Minimal</figcaption><div class="frame dot"><img src="img/f1-minimal.png" alt="Formula 1 Minimal" loading="lazy"></div></figure><figure class="card dot"><figcaption>Minimal · landscape</figcaption><div class="missing">Not re-captured<br><span>the preview simulator kept returning another scenario</span></div></figure></div></section><section id="golf"><h2>Golf</h2><p class="desc">The Masters, round 3, followed player Åberg</p><div class="grid"><figure class="card big"><figcaption>Lock Screen</figcaption><div class="frame big"><img src="img/golf-lock.png" alt="Golf Lock Screen" loading="lazy"></div></figure><figure class="card big"><figcaption>Lock Screen · dark</figcaption><div class="missing">Not re-captured<br><span>the preview simulator kept returning another scenario</span></div></figure><figure class="card big"><figcaption>StandBy</figcaption><div class="missing">Not re-captured<br><span>the preview simulator kept returning another scenario</span></div></figure><figure class="card fail"><figcaption>Smart Stack</figcaption><div class="missing">Render failed<br><code>SmallActivityFamilyAbsentError</code></div></figure><figure class="card big"><figcaption>Island expanded</figcaption><div class="missing">Not re-captured<br><span>the preview simulator kept returning another scenario</span></div></figure><figure class="card big"><figcaption>Island expanded · dark</figcaption><div class="missing">Not re-captured<br><span>the preview simulator kept returning another scenario</span></div></figure><figure class="card pill"><figcaption>Island compact</figcaption><div class="frame pill"><img src="img/golf-compact.png" alt="Golf Island compact" loading="lazy"></div></figure><figure class="card tall"><figcaption>Compact · landscape</figcaption><div class="frame tall"><img src="img/golf-compact-landscape.png" alt="Golf Compact · landscape" loading="lazy"></div></figure><figure class="card dot"><figcaption>Minimal</figcaption><div class="missing">Not re-captured<br><span>the preview simulator kept returning another scenario</span></div></figure><figure class="card dot"><figcaption>Minimal · landscape</figcaption><div class="missing">Not re-captured<br><span>the preview simulator kept returning another scenario</span></div></figure></div></section>
 </main></body></html>

diff --git a/SportsCal/SportsWidget/LiveSportActivityWidget.swift b/SportsCal/SportsWidget/LiveSportActivityWidget.swift
@@ -814,7 +814,8 @@ struct LiveSportActivityWidget: Widget {
                     }
                     .foregroundColor(WidgetTokens.ink)
                 } else {
-                    let sides = activitySides(context.attributes, context.state)
+                    // Leader first, like compact: "KC" over "20-17".
+                    let sides = leaderFirst(activitySides(context.attributes, context.state))
                     MinimalScoreView(first: sides.first, second: sides.second)
                 }
             }
